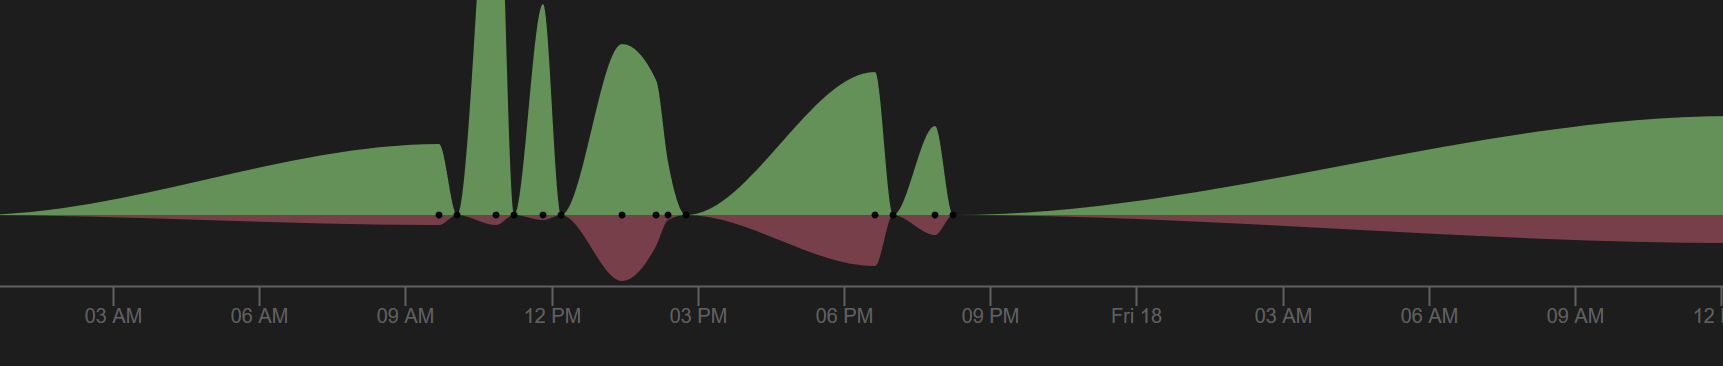
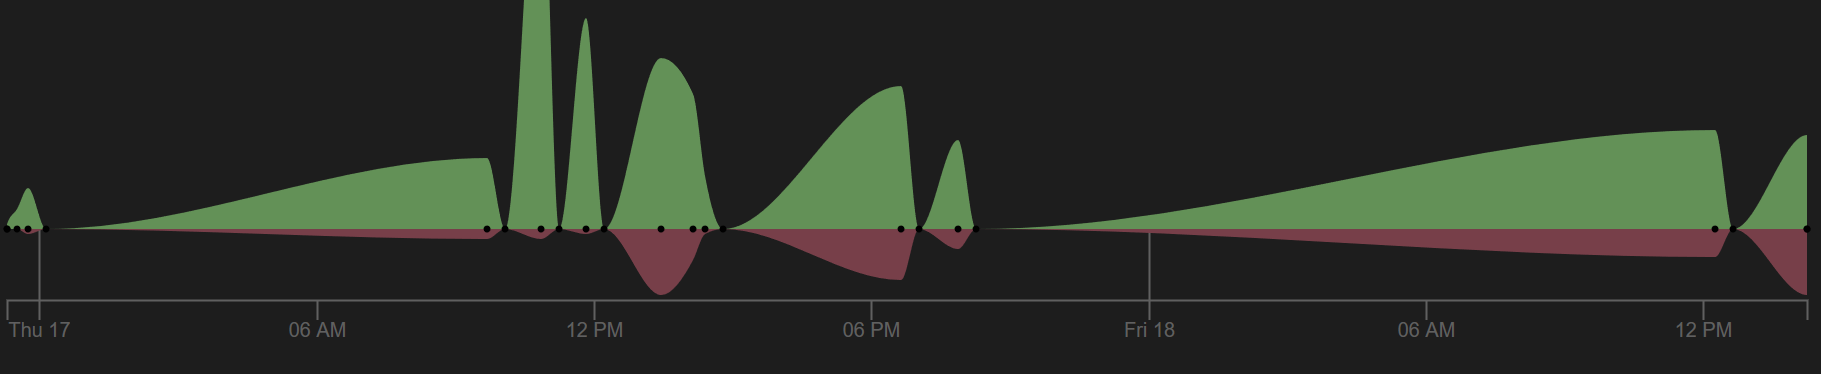
tweaked horizontal axis and started to implement a way to track the commits messages

diff --git a/index.html b/index.html
@@ -45,6 +45,12 @@ var nline = d3.line()
     .y(function(d) { return ny(d.deletions) + height; });
 
 
+
+
+
+
+
+
 d3.csv("changes.csv", function(d) {
   d.date = parseTime(d.date);
   d.insertions = + d.insertions;
@@ -70,9 +76,16 @@ d3.csv("changes.csv", function(d) {
   g.append("g")
       .attr("transform", "translate(0," + ( +ny(tmp_1) + 5 + height ).toString() + ")")
       .attr("class", "axisRed")
-      .call(d3.axisBottom(x).tickSize(20))
-    // .select(".domain")
-    //   .remove();
+      .call(d3.axisBottom(x).tickSize(20).ticks(5))
+
+  g.append("g")
+      .attr("transform", "translate(0," + ( +ny(tmp_1) + 5 + height ).toString() + ")")
+      .attr("class", "axisRed")
+
+      .call(d3.axisBottom(x).tickSize( -(ny(tmp_1) + 5 + height/2) ).ticks(2,""))
+
+    .select(".domain")
+      .remove();
 
   // g.append("g")
   //     .call(d3.axisLeft(y))

diff --git a/bbengfort_approach.py b/bbengfort_approach.py
@@ -5,9 +5,13 @@ import csv
 import argparse
 import datetime
 
-output        = []
-used          = []
-list_of_files = []
+output_add_del     = []
+used_add_del       = []
+
+output_commit_info = []
+used_commit_info   = []
+
+list_of_files      = []
 
 #python bbengfort_approach.py -f files.txt -sr 0.01
 
@@ -128,21 +132,27 @@ data = versions(str(arguments.directory))
 
 #list_of_files
 
+# print data[0]
+
 for i in data:
 
     # print "\n"*3
     # for j in i.iteritems(): print j
 
-    if i["time"] not in used:
-        used.append(i["time"])
-        # output.append([i["time"], i["insertions"] , i["deletions"], i["timestamp"].split("+")[0]])
-        output.append([ i["time"], 0, 0, i["timestamp"].split("+")[0] ])
+    if i["time"] not in used_commit_info:
+        used_commit_info.append(i["time"])
+        output_commit_info.append([i["time"], i["timestamp"].split("+")[0], i["message"].strip()])
+
+    if i["time"] not in used_add_del:
+        used_add_del.append(i["time"])
+        # output_add_del.append([i["time"], i["insertions"] , i["deletions"], i["timestamp"].split("+")[0]])
+        output_add_del.append([ i["time"], 0, 0, i["timestamp"].split("+")[0] ])
 
     if len(list_of_files) == 0:
-        for n, j in enumerate(output):
+        for n, j in enumerate(output_add_del):
             if j[0] == i["time"]:
-                output[n][1] += i["insertions"]
-                output[n][2] += i["deletions"]
+                output_add_del[n][1] += i["insertions"]
+                output_add_del[n][2] += i["deletions"]
     else:
         # aa = len(arguments.directory.replace("\\","\\\\")) + 2
         aa = len(arguments.directory) + 1
@@ -154,27 +164,27 @@ for i in data:
         # print i["object"][aa::] in list_of_files
 
         if i["object"][aa::] in list_of_files:
-            for n, j in enumerate(output):
+            for n, j in enumerate(output_add_del):
                 if j[0] == i["time"]:
-                    output[n][1] += i["insertions"]
-                    output[n][2] += i["deletions"]
+                    output_add_del[n][1] += i["insertions"]
+                    output_add_del[n][2] += i["deletions"]
 
-output = sorted(output, key=lambda x: x[0])
+output_add_del = sorted(output_add_del, key=lambda x: x[0])
 
-# print        output[0 ]
-# print "0  ", output[0 ][0]
-# print "-1 ", output[-1][0]
+# print        output_add_del[0 ]
+# print "0  ", output_add_del[0 ][0]
+# print "-1 ", output_add_del[-1][0]
 
-total_difference = abs(output[-1][0] - output[0][0])
+total_difference = abs(output_add_del[-1][0] - output_add_del[0][0])
 
 extra_stack = []
 
-for n, i in enumerate(output):
-    if n+1 < len(output):
+for n, i in enumerate(output_add_del):
+    if n+1 < len(output_add_del):
 
-        print abs(i[0] - output[n+1][0]), "<", (total_difference * arguments.sparse_right)
+        print abs(i[0] - output_add_del[n+1][0]), "<", (total_difference * arguments.sparse_right)
 
-        if abs(i[0] - output[n+1][0]) > (total_difference * arguments.sparse_right):
+        if abs(i[0] - output_add_del[n+1][0]) > (total_difference * arguments.sparse_right):
             dateeee = i[0] + (total_difference * arguments.sparse_right / 2)
             print dateeee
             # str_dat = datetime.datetime.fromtimestamp(int("1284101485")).strftime('%Y-%m-%d %H:%M:%S')
@@ -185,9 +195,9 @@ for n, i in enumerate(output):
             print "adding stop points to the right..."
 
 
-for n, i in enumerate(output):
+for n, i in enumerate(output_add_del):
     if n > 0:
-        if abs(i[0] - output[n-1][0]) > total_difference * arguments.sparse_left:
+        if abs(i[0] - output_add_del[n-1][0]) > total_difference * arguments.sparse_left:
             dateeee = i[0] - (total_difference * arguments.sparse_left / 2)
             print dateeee
             str_dat = datetime.datetime.fromtimestamp(int(dateeee)).strftime(DATE_TIME_FORMAT)
@@ -196,19 +206,24 @@ for n, i in enumerate(output):
             print "adding stop points to the left..."
 
 for i in extra_stack:
-    output.append(i)
+    output_add_del.append(i)
 
-output = sorted(output, key=lambda x: x[0])
+output_add_del = sorted(output_add_del, key=lambda x: x[0])
 
 with open('changes.csv', 'wb') as myfile:
     wr = csv.writer(myfile, quoting=csv.QUOTE_ALL)
     wr.writerow(["date", "insertions", "deletions"])
-    for i in output:
+    for i in output_add_del:
         wr.writerow([i[3], i[1], i[2]])
 
 
+output_commit_info = sorted(output_commit_info, key=lambda x: x[0])
 
-
+with open('commits.csv', 'wb') as myfile:
+    wr = csv.writer(myfile, quoting=csv.QUOTE_ALL)
+    wr.writerow(["date", "message"])
+    for i in output_commit_info:
+        wr.writerow([i[1], i[2]])
 
 
 
